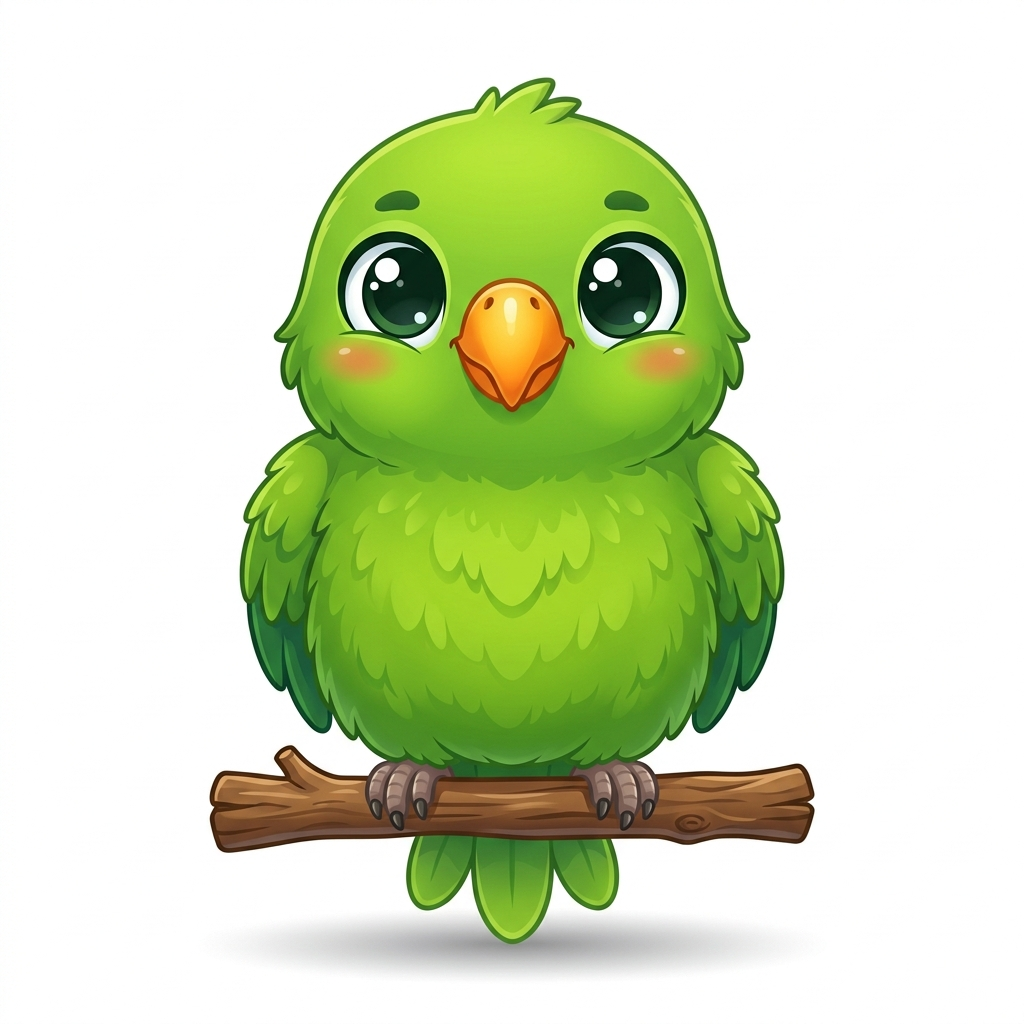
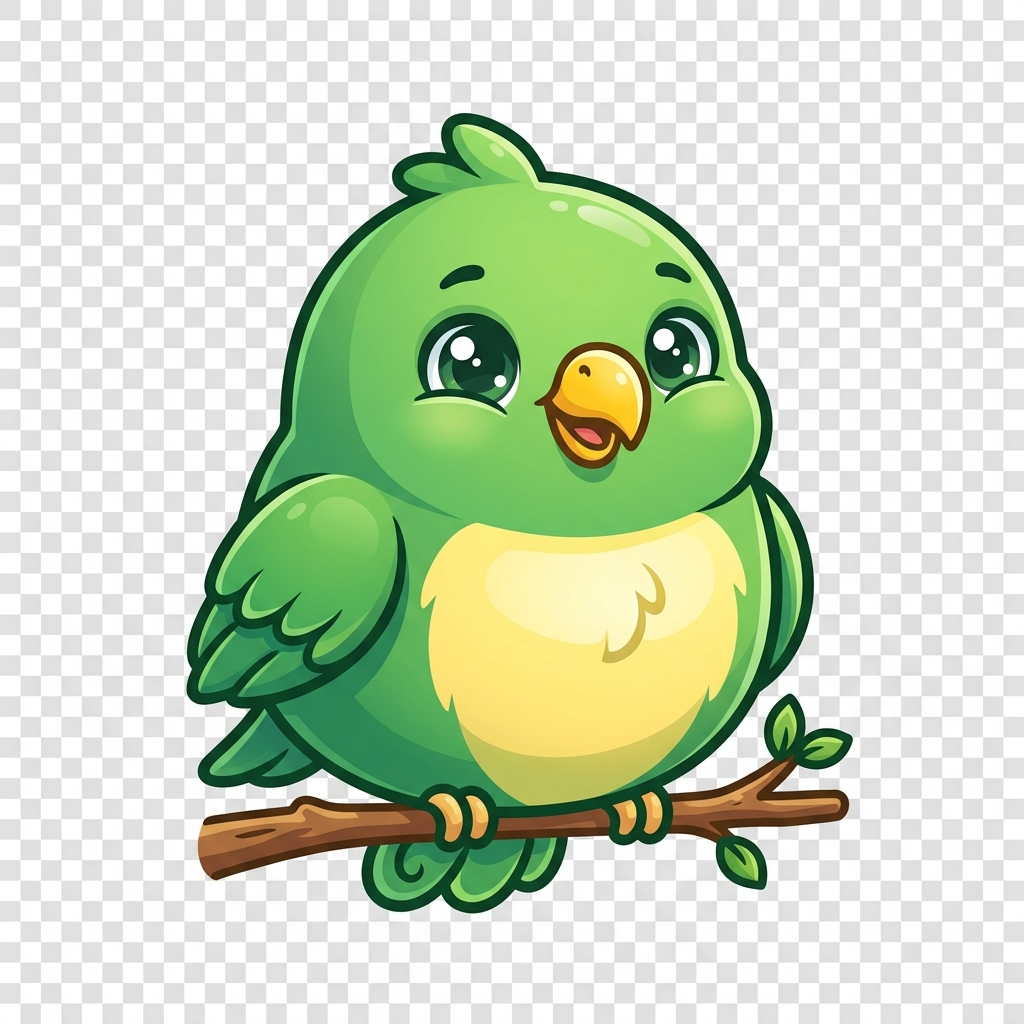
fix: new chubby mascot, remove Groq footer, sentence lines on landing

diff --git a/src/app/page.tsx b/src/app/page.tsx
@@ -299,9 +299,8 @@ export default function LandingPage() {
         </div>
       </section>
 
-      <footer style={{ borderTop: '1px solid var(--border)', padding: '24px 48px', display: 'flex', justifyContent: 'space-between', alignItems: 'center' }}>
+      <footer style={{ borderTop: '1px solid var(--border)', padding: '24px 48px', display: 'flex', justifyContent: 'center', alignItems: 'center' }}>
         <span style={{ fontSize: 13, color: 'var(--ink-4)' }}>Redrob Jugaad · India Runs Hackathon 2026</span>
-        <span style={{ fontSize: 13, color: 'var(--ink-4)' }}>Powered by Groq · LLaMA 3.3 70B</span>
       </footer>
     </div>
   );